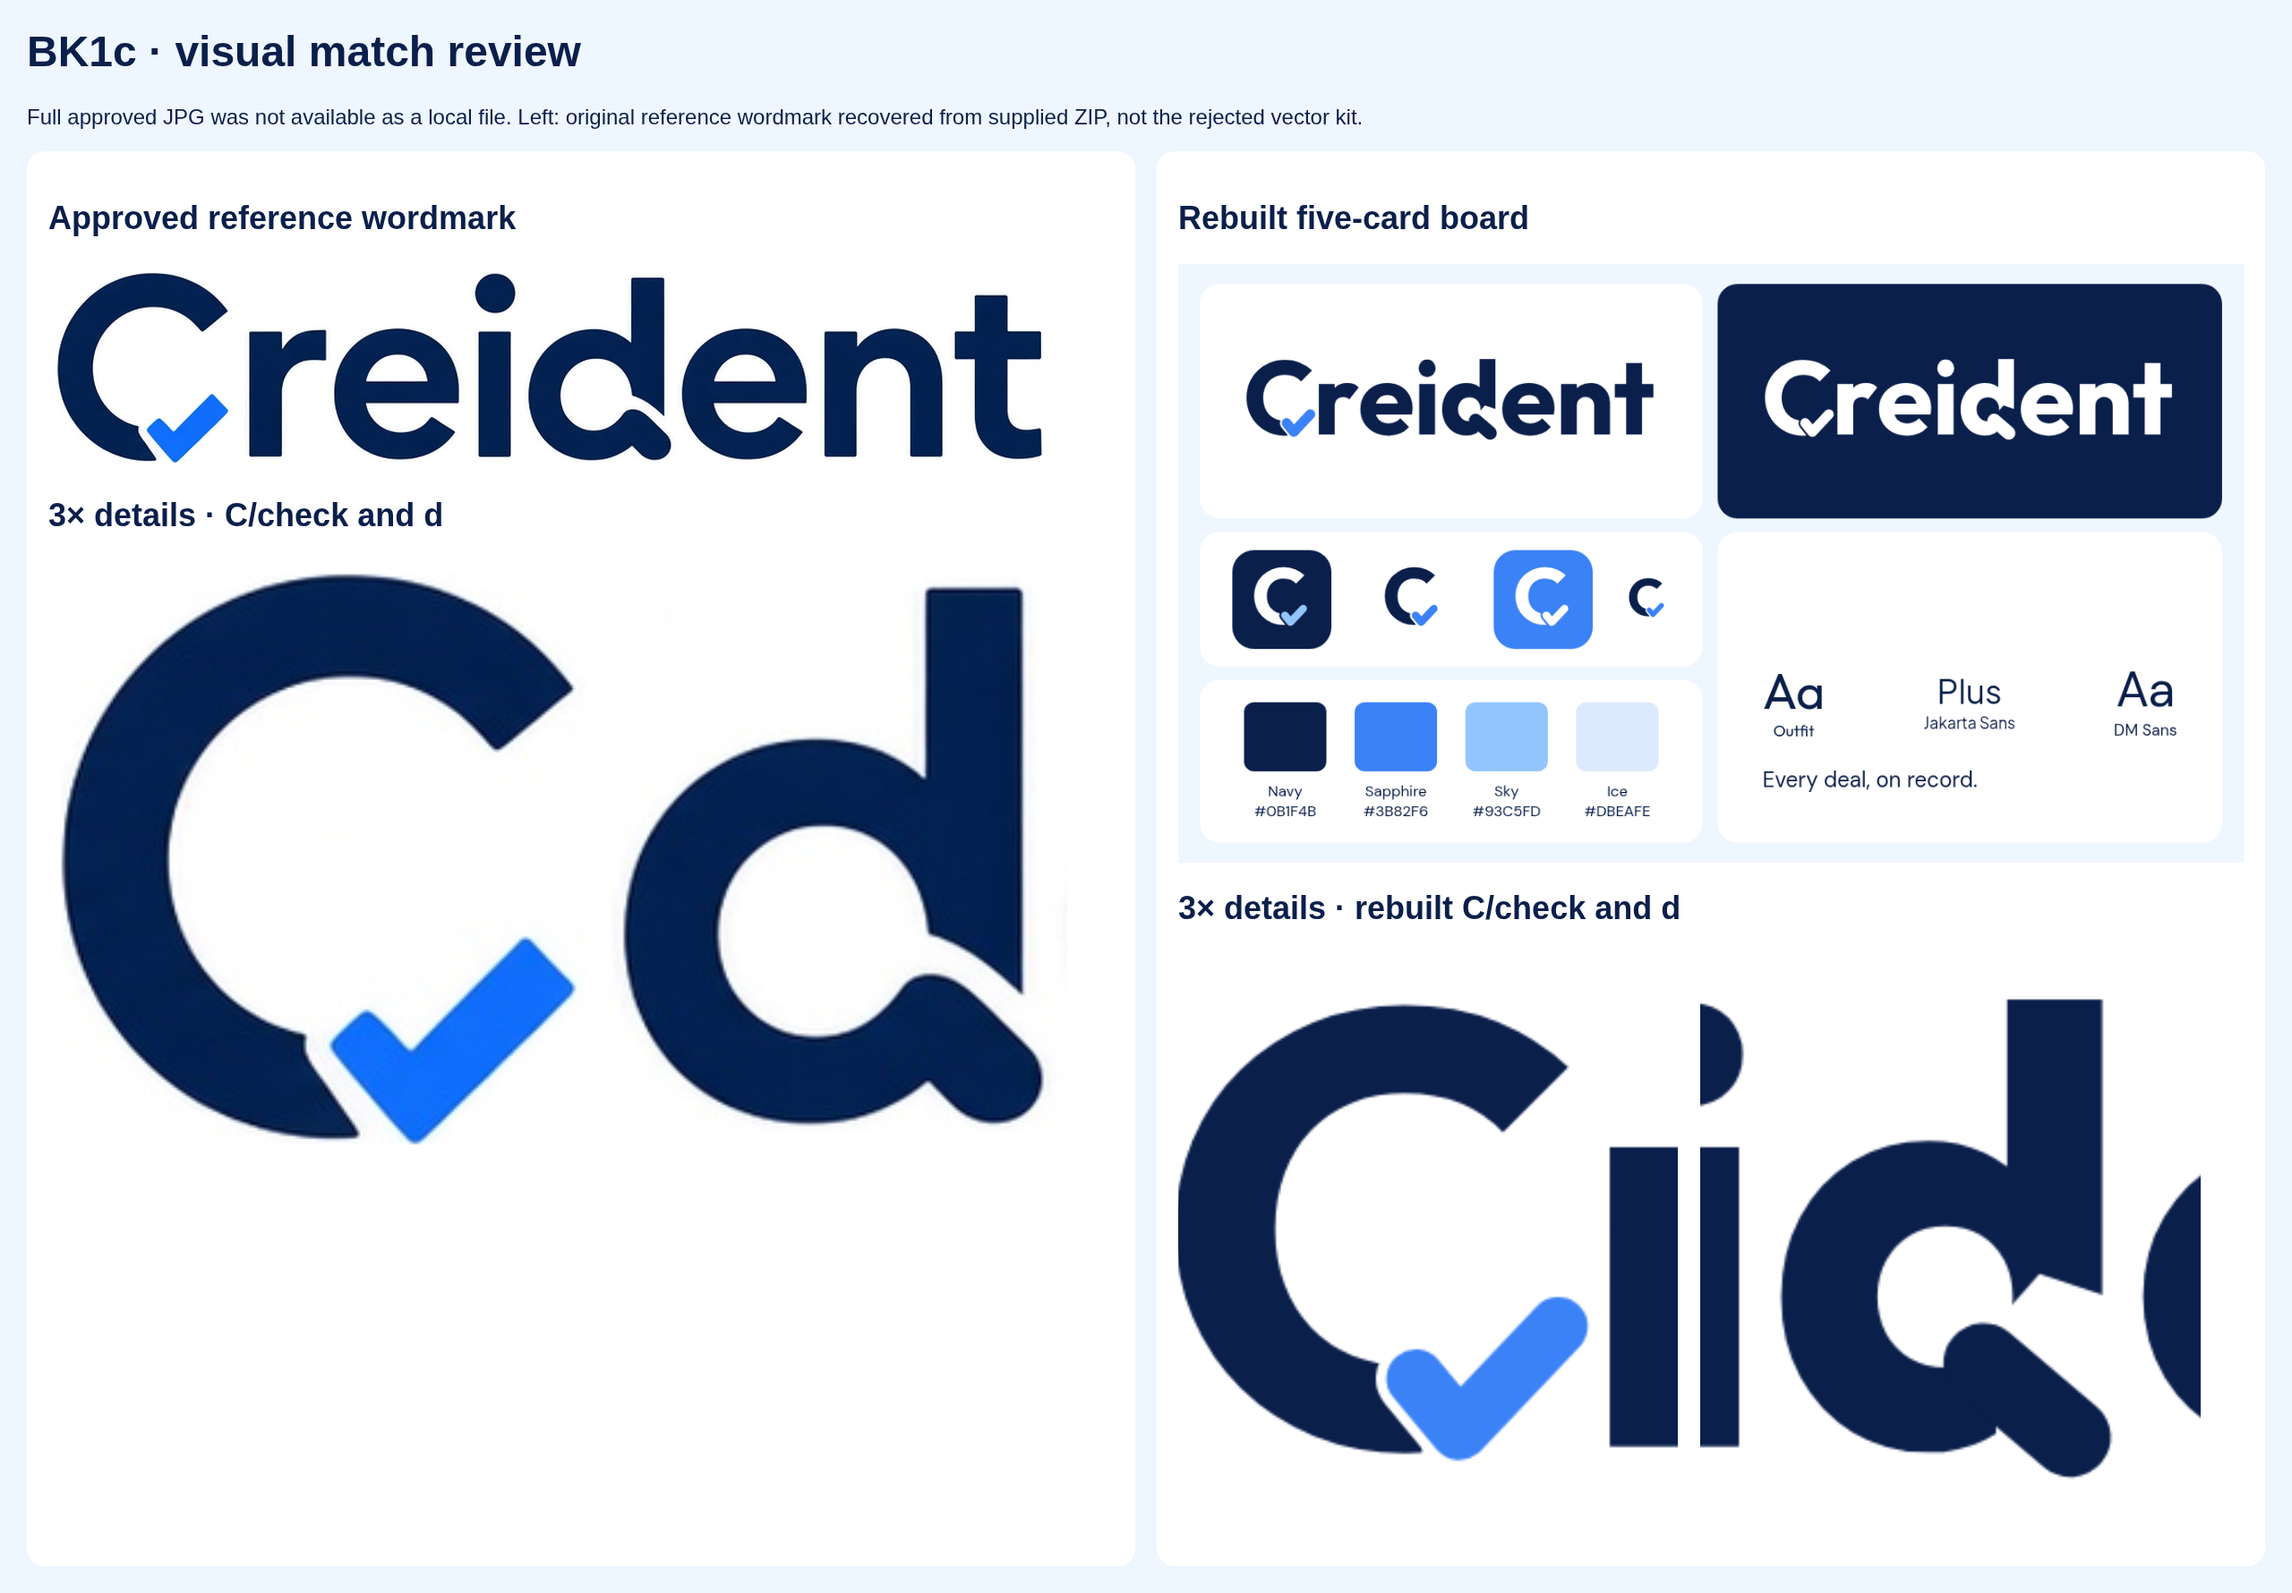
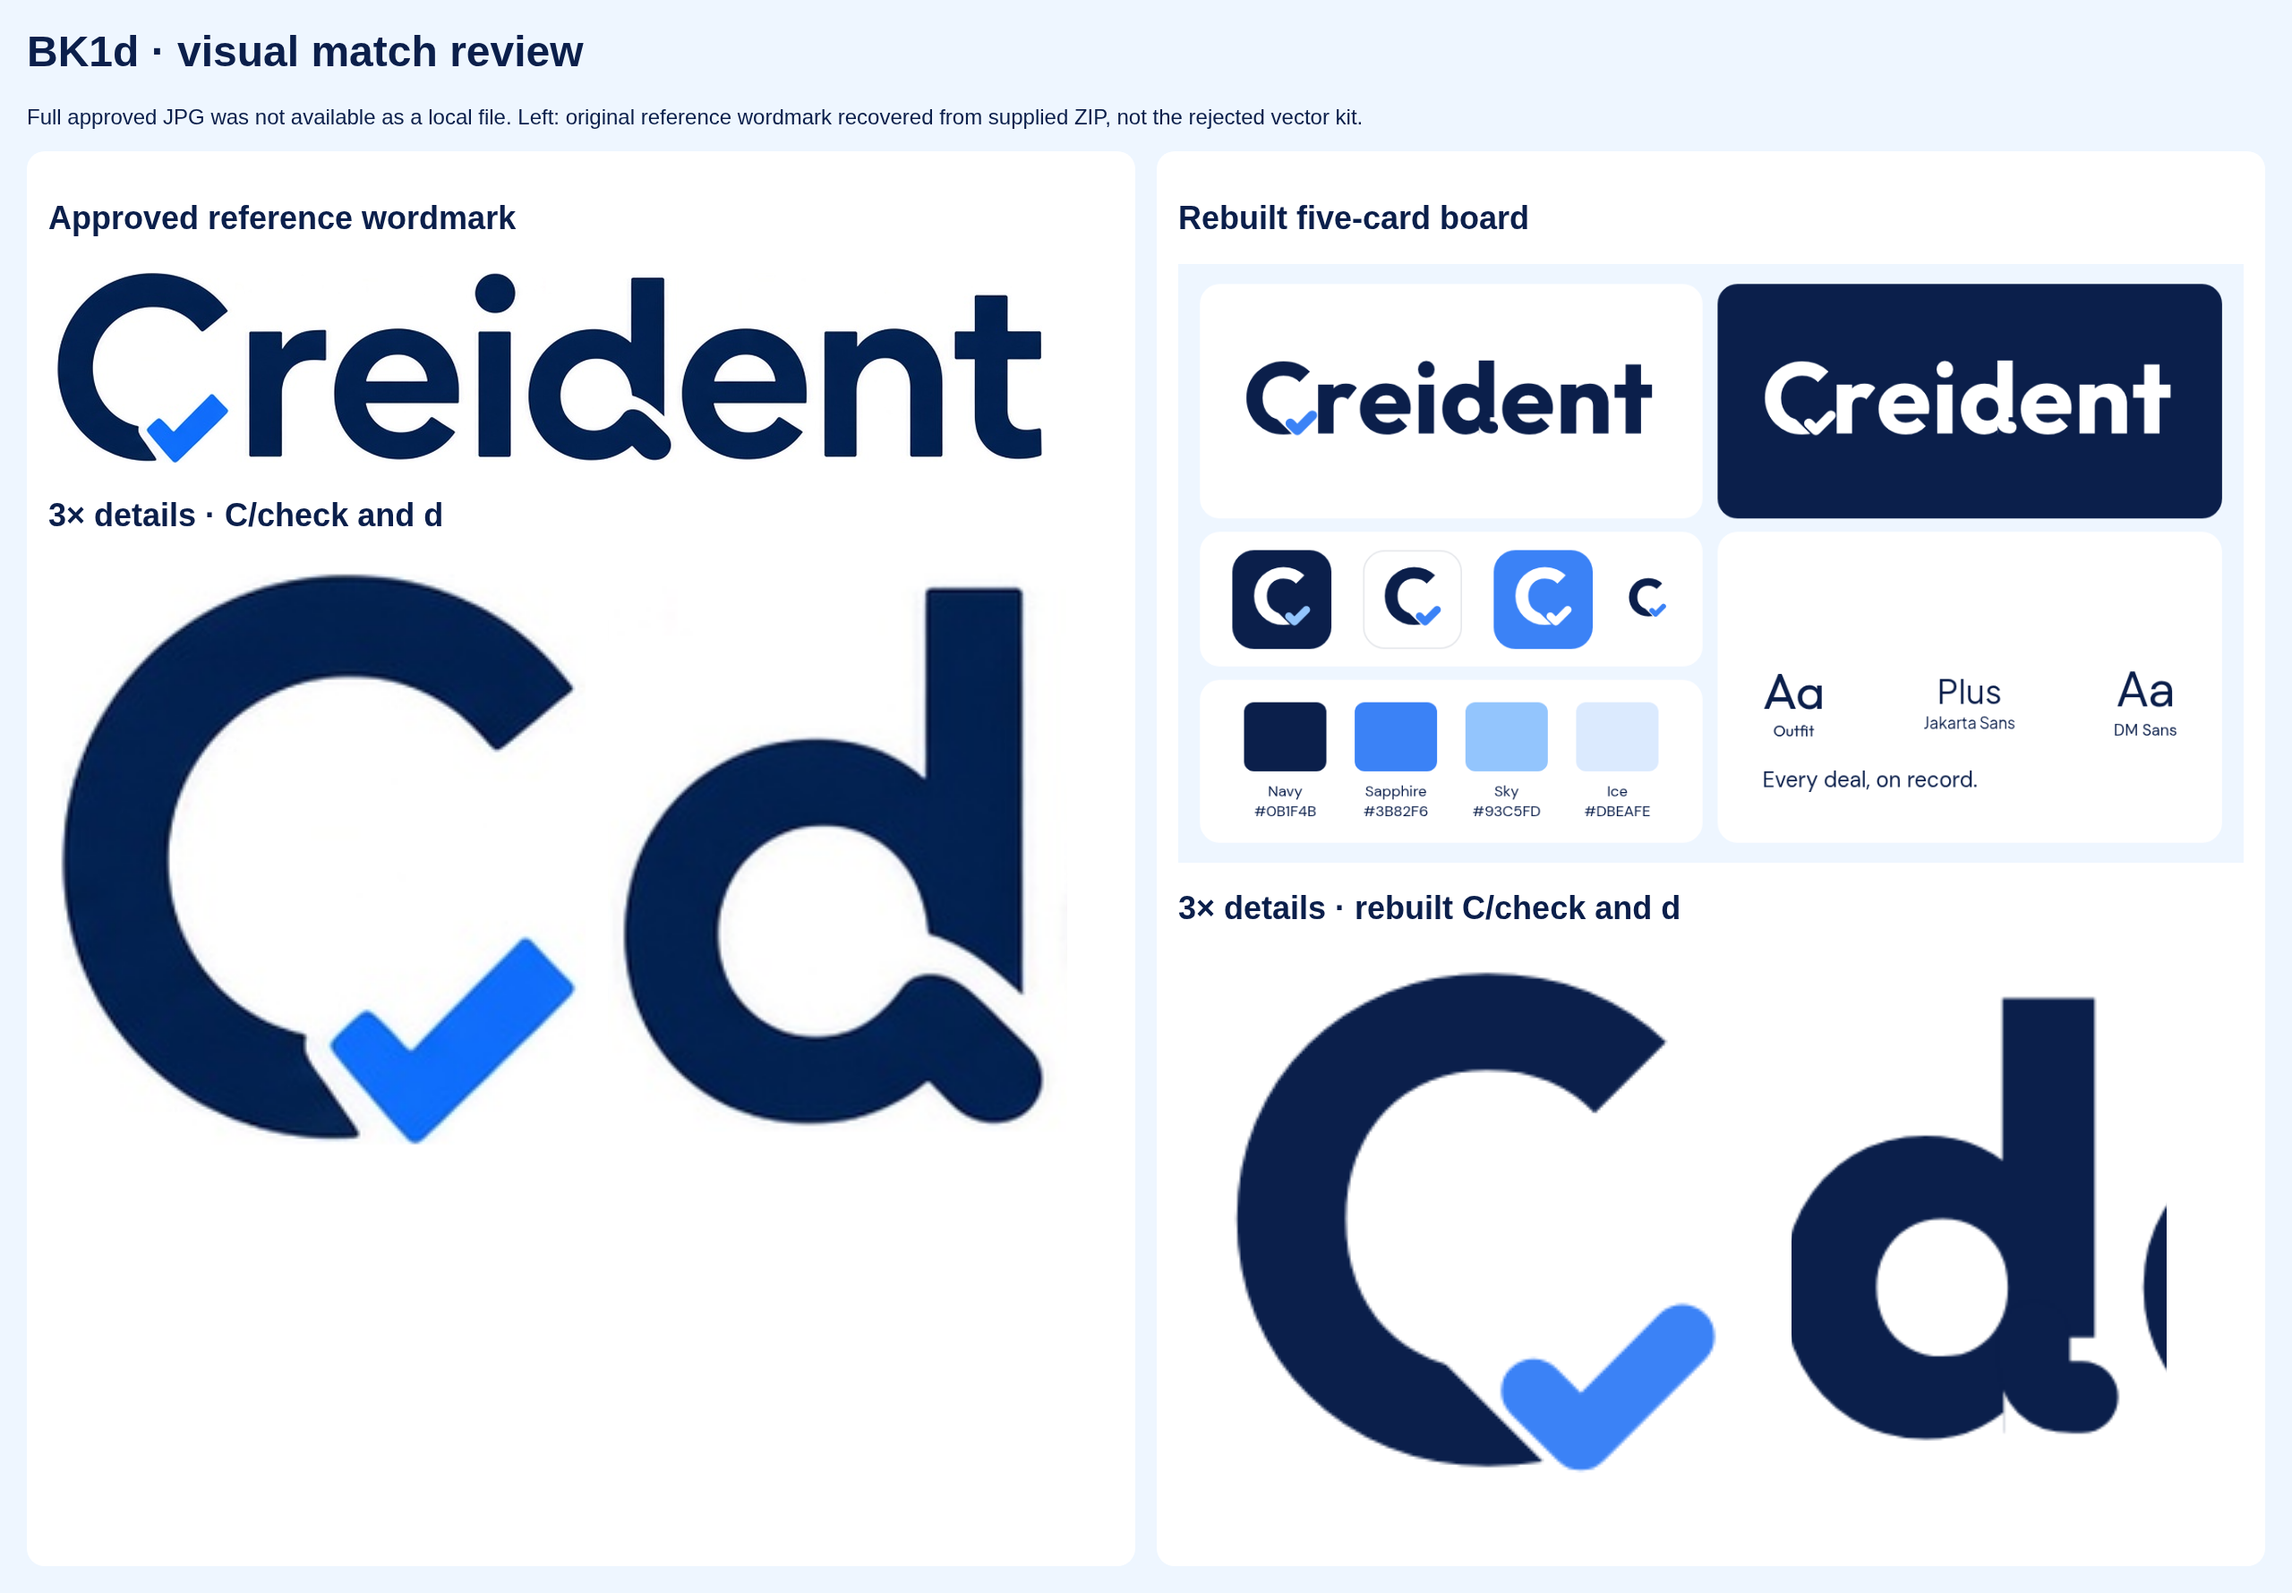
Correct baseline d curl and independently spaced Check-C

diff --git a/docs/brand/build-v2.py b/docs/brand/build-v2.py
@@ -11,18 +11,17 @@ g=f.getGlyphSet();c=f.getBestCmap()
 def glyph(ch):
  p=SVGPathPen(g);g[c[ord(ch)]].draw(p);return p.getCommands()
 def word(color,check,mark=False,gap=17):
- # Small marks keep a raster-safe optical gap floor.
- if mark: gap=max(gap,24)
- # BK1c: compact inner check, thin 17-unit separation; custom outward d tail.
- check_path='M420 110 490 25 650 195'
- defs=f'<defs><mask id="ct"><rect x="-100" y="-100" width="1100" height="1100" fill="white"/><rect x="430" y="-60" width="400" height="310" fill="black"/><path d="{check_path}" fill="none" stroke="black" stroke-width="{95+2*gap}" stroke-linecap="round" stroke-linejoin="round"/></mask><mask id="dt"><rect x="-100" y="-100" width="1000" height="1000" fill="white"/><path d="M370 -80H650V210L440 280 370 200Z" fill="black"/></mask></defs>'
- art=f'<path d="{glyph("C")}" fill="{color}" mask="url(#ct)"/><path d="{check_path}" fill="none" stroke="{check}" stroke-width="95" stroke-linecap="round" stroke-linejoin="round"/>'
- x=f['hmtx'][c[67]][0]-10
+ # Outfit was already 700 in BK1c; keep requested weight and loosen tracking.
+ # Clip the C terminal independently; never knock out a check-shaped halo.
+ check_path='M470 100 540 30 690 180'
+ defs='<defs><clipPath id="ct"><path d="M-100 -100H580L280 200H1000V1000H-100Z"/></clipPath><clipPath id="dt"><path d="M-100 -100H390V160H650V1000H-100Z"/></clipPath></defs>'
+ art=f'<path d="{glyph("C")}" fill="{color}" clip-path="url(#ct)"/><path d="{check_path}" fill="none" stroke="{check}" stroke-width="95" stroke-linecap="round" stroke-linejoin="round"/>'
+ x=f['hmtx'][c[67]][0]+5
  if not mark:
   for ch in 'reident':
-   shape=f'<path d="{glyph(ch)}" fill="{color}"'+(' mask="url(#dt)"' if ch=='d' else '')+'/>'
-   if ch=='d':shape+=f'<path d="M350 135 490 15" fill="none" stroke="{color}" stroke-width="130" stroke-linecap="round" stroke-linejoin="round"/>'
-   art+=f'<g transform="translate({x} 0)">{shape}</g>';x+=f['hmtx'][c[ord(ch)]][0]-10
+   shape=f'<path d="{glyph(ch)}" fill="{color}"'+(' clip-path="url(#dt)"' if ch=='d' else '')+'/>'
+   if ch=='d':shape+=f'<path d="M440 160V125Q440 60 505 60H520" fill="none" stroke="{color}" stroke-width="120" stroke-linecap="round" stroke-linejoin="round"/>'
+   art+=f'<g transform="translate({x} 0)">{shape}</g>';x+=f['hmtx'][c[ord(ch)]][0]+5
  w=48 if mark else (x+55)*.05
  transform='translate(3 41) scale(.055 -.055)' if mark else 'translate(0 40) scale(.05 -.05)'
  return f'<svg xmlns="http://www.w3.org/2000/svg" viewBox="0 0 {w:.2f} 48" role="img" aria-label="Creident"><title>Creident</title>{defs}<g transform="{transform}">{art}</g></svg>'
@@ -30,7 +29,8 @@ for name,color,check,mark in [('wordmark-light','#0B1F4B','#3B82F6',False),('wor
 def icon(bg,light=False,sapphire=False,maskable=False):
  mark=word('#FFFFFF' if light else '#0B1F4B','#FFFFFF' if sapphire else '#93C5FD' if light else '#3B82F6',True)
  inner=mark[mark.index('<defs>'):mark.rfind('</svg>')]
- return f'<svg xmlns="http://www.w3.org/2000/svg" viewBox="0 0 48 48"><title>Creident app icon</title><rect width="48" height="48" rx="{0 if maskable else 10.56}" fill="{bg}"/><g transform="translate(7.2 7.2) scale(.7)">{inner}</g></svg>'
+ border='<rect x=".35" y=".35" width="47.3" height="47.3" rx="10.21" fill="none" stroke="#E5E7EB" stroke-width=".7"/>' if bg=='#FFFFFF' else ''
+ return f'<svg xmlns="http://www.w3.org/2000/svg" viewBox="0 0 48 48"><title>Creident app icon</title><rect width="48" height="48" rx="{0 if maskable else 10.56}" fill="{bg}"/>{border}<g transform="translate(7.2 7.2) scale(.7)">{inner}</g></svg>'
 for n,b,l,s in [('navy','#0B1F4B',True,False),('white','#FFFFFF',False,False),('sapphire','#3B82F6',True,True)]: (out/f'app-icon-{n}.svg').write_text(icon(b,l,s))
 (out/'favicon.svg').write_text(word('#0B1F4B','#3B82F6',True))
 (out/'maskable-source.svg').write_text(icon('#0B1F4B',True,False,True))

diff --git a/docs/brand/BRAND.md b/docs/brand/BRAND.md
@@ -24,9 +24,11 @@ All files are pure vector paths (no live text or embedded images) with tight vie
 **Dark wordmark:** white letters and white check, matching the approved board.
 The Navy app tile retains a Sky check as requested; the Sapphire tile uses white.
 
-**Optical tuning:** the wordmark uses a thin 17-unit exclusion gap against an
-approximately 130-unit reference stroke (13%). Mark gap is 24 units to retain
-separation at small sizes. The check is compact and inside the lower-right opening.
+**Optical tuning:** an independent diagonal terminal clip trims only the lower
+C opening. The check is placed separately, not surrounded by a check-shaped mask
+or a painted white outline. Its short-arm edge is about 16 font units from the
+trim plane (12% of a 130-unit reference stroke). The same geometry is used for
+wordmark, marks, icons and favicon.
 
 ### Raster exports (`public/brand/v2/`)
 | File | Notes |
@@ -110,11 +112,11 @@ What this means in practice:
 
 - Outfit 700, outlined from the existing WOFF2 with preinstalled system FontTools
   and Brotli. No dependencies, package changes, font requests or kit glyph reuse.
-- All letters except C and d keep the original Outfit outlines, with tight -0.01em
+- All letters except C and d keep the original Outfit outlines, with slightly looser +0.005em
   inter-letter adjustment. C terminal trimmed, rounded 95-unit compact check and
-  17-unit thin separation. The check vertex is close to the baseline.
-- Custom d: lower stem cut back, rounded tail extends diagonally down-right across
-  the bowl's lower-right edge, leaving a visible notch above the tail.
+  approximately 16-unit thin separation. The check vertex is close to the baseline.
+- Custom d: lower stem cut back, rounded tail bends right at y=60 with a 120-unit stroke, so its lower
+  edge stays exactly at baseline y=0; it never drops below the other letters.
 - Rebuild vectors: `/usr/bin/python3 docs/brand/build-v2.py`. Existing source font
   license remains in src/fonts/Outfit-OFL.txt. SVGs have outlined paths, no live text
   or embedded raster images. PNGs are rasterized from these new vectors.
@@ -139,3 +141,11 @@ needs owner visual approval. These differences are shown openly in match-check.p
 Managed Chromium blocks file://; screenshots use a temporary localhost static
 server. HTML uses local relative files with no CDN/build. Test/typecheck/build
 results and publication status are in docs/HANDOFF.md.
+
+## 10. BK1d corrections
+
+The requested Outfit weight is 700; BK1c was already generated at 700, so no false
+weight reduction is claimed. Slightly looser tracking (+5 vs -10 font units) opens
+the word. The d tail is now horizontal and baseline-bound, not a diagonal handle.
+White app tile has a 0.7/48 light-grey #E5E7EB border. This border is a tile outline,
+not an additional logo color. File list and core palette remain unchanged.

diff --git a/docs/HANDOFF.md b/docs/HANDOFF.md
@@ -173,6 +173,27 @@ Still open:
 
 ## Log
 
+### 2026-10-30 — BK1d four logo corrections
+
+- Continued ui/creident-mockup from clean d3d8e3e. Removed diagonal d handle;
+  short rounded rightward curl uses y=60 center with 120-unit stroke, lower edge
+  exactly baseline zero (original bowl overshoot matches other Outfit letters).
+- C terminal clipped with its own diagonal plane, not a check-shaped exclusion
+  mask or white paint. Separate check short-arm clearance ~16 units (12% of
+  reference stroke); same geometry propagated to marks/icons/favicon.
+- Confirmed BK1c was already Outfit 700; retained requested 700, no false reduction
+  claim. Tracking loosened -10 to +5 font units. White app tile gets 0.7/48
+  light-grey border. Other letters, colors and file list unchanged.
+- Regenerated all v2 SVG/PNG exports, board and 3x match-check screenshot.
+  Remaining differences: standard Outfit r/t vs AI artwork, rounded check caps,
+  reference board's raster hues/softness. Full source JPG remains unavailable;
+  comparison uses original reference wordmark panel recovered from supplied ZIP.
+- 522 tests/50 files, typecheck/build/diff check pass. Local browser renders assets;
+  no external requests or source/app changes. Only docs/brand, v2 assets, handoff.
+  No dependency or deployment. Push targets origin/ui/creident-mockup only.
+- Manual compare (no PR claimed):
+  https://github.com/Ilham-Musyafa/Creident/compare/main...ui/creident-mockup
+
 ### 2026-10-30 — BK1c board-match rebuild
 
 - Continued ui/creident-mockup from clean fe95649. Read attached BRAND.md and ZIP
